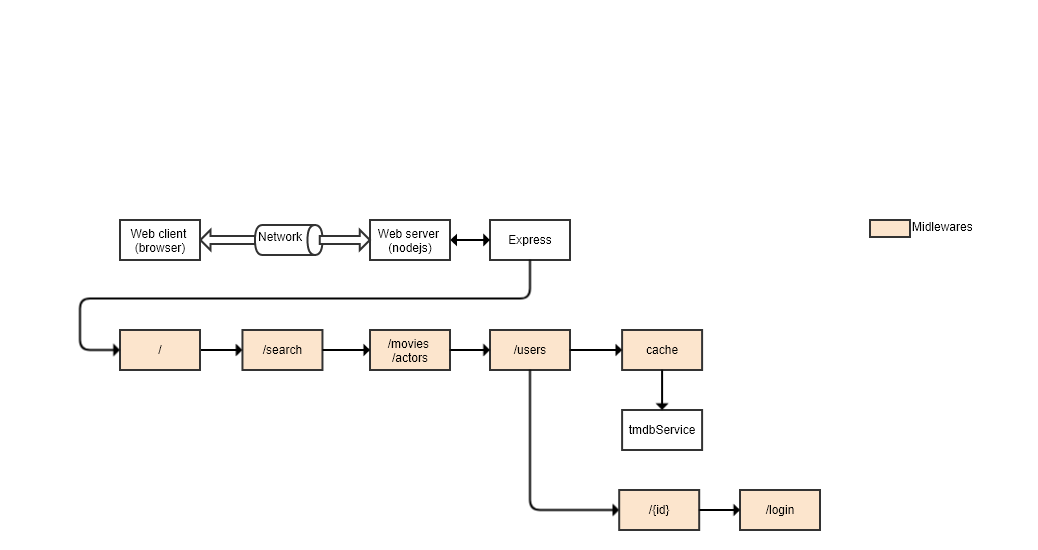
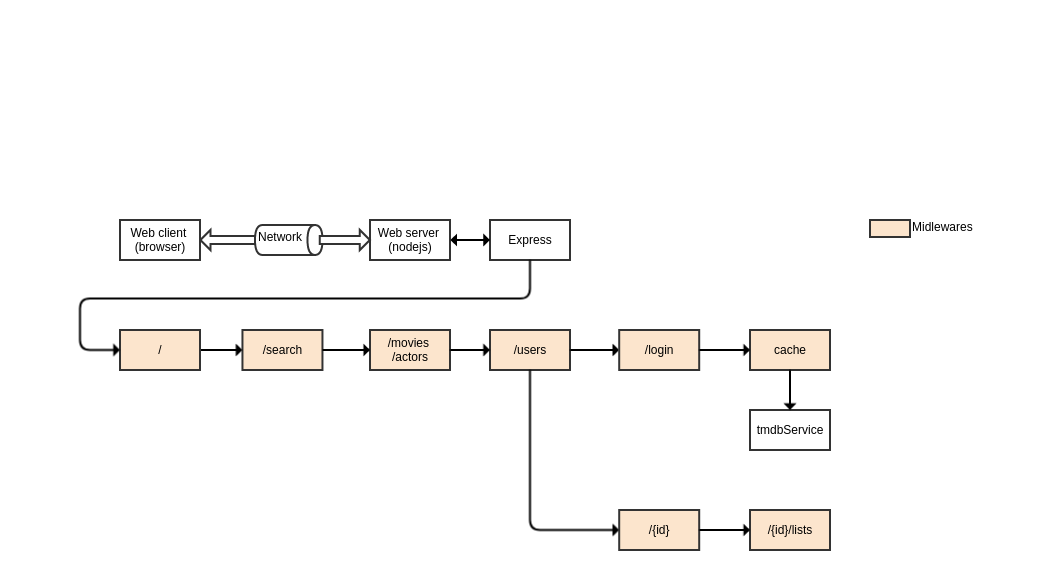
minor cleaning

diff --git a/app/MidlewareLists.js b/app/MidlewareLists.js
@@ -1,42 +1,20 @@
 'use strict'
 
-let fs = require('fs')
-let hb = require('handlebars')
-let us = require('user')
+
 
 const logger = (msg) => {console.log('Midleware Lists: ' + msg); return msg;}
-
-const TEMPLATE_FILE_LISTS = 'templateviews/lists.hbs'
 
 /**
 * Midleware for List Displaying and Handeling
 * /search?name={query}
-* @param {*} req 
-* @param {*} resp 
-* @param {*} next 
+* @param {obj} req 
+* @param {obj} resp 
+* @param {func} next 
 */
 function getLists(req, resp, next){    
-    let cookie = req.cookies[COOKIE_NAME]
-    let user = createuser(req.params.username)
-    let userInfo = ''//Function to Query User object from Couch 
-    user = createUserFromCB(user, userInfo)
-
-    let Lists = user.favLists
-
-    rep.user= user
-    /* Checar o que FAZ*/
-    req.coimapage = page
-    req.coimarouter = req.baseUrl
-    req.coimaterm = query   
-
-    //using decorator pattern for calling view
-    const ori_send = resp.send
-    resp.send = (...args) => {
-        resp.send = ori_send
-        resp.template = TEMPLATE_FILE_LISTS
-        createListView(req, resp, ...args)
-    }
-    next()
+  resp.render('lists')
+  return
+   // next()
 }
 
 /**

diff --git a/app/user.js b/app/user.js
@@ -1,32 +1,31 @@
 'use strict'
 
-const fs = require('fs')
-let favlist = require('./favlist')
+//let favlist = require('./favlist')
 
-function user() {
-    this.user = null,
-    this.id = null,
-    this.docVersion = null,
+function User() {
+    this.name = null
+    this.id = null
+    this.docVersion = null
     this.favLists = []
-    this.loggedIn = 0
-    
+    this.loggedIn = 0    
 }
 
 function createUser(name) {
-    let user = new user()
+    let user = new User()
     user.name = name
+    return user
 }
 
-function createUserFromCB(user, userInfo) {
+function createUserFromCB(username, userInfo) {
     
         let obj = JSON.parse(userInfo)
-        let user = new user()
+        let user = new User()
         user.name = obj.name
         user.id = obj._id
         user.docVersion = obj.docVersion
         user.status = false
 
-       JSON.parse(obj.favLists[]).forEach(function(elem) { 
+       JSON.parse(obj.favLists).forEach(function(elem) { 
             let favlist = new favlist()
             favlist.id = elem.id
             favlist.name = elem.name

diff --git a/app/app.js b/app/app.js
@@ -3,12 +3,11 @@
 /**
  * Modules declaration, add new midlewares modules here
  */
-let home = require('./MidlewareHome')
-let search = require('./MidlewareSearch')
-let common = require('./MidlewareCommon')
-let user = require('./MidlewareUser')
-let login = require('./MidlewareLogin')
-let cache = require('./cache')
+const search = require('./MidlewareSearch')
+const common = require('./MidlewareCommon')
+const user = require('./MidlewareUser')
+const login = require('./MidlewareLogin')
+const cache = require('./cache')
 const app = require('express')()
 const cookieParser = require('cookie-parser')
 const passport = require('passport')
@@ -76,7 +75,7 @@ app.use('/search', search)
 app.use(['/movies', '/actors'], common)
 app.use('/users', user)
 app.use('/login', login)
-app.get('/', home)
+app.get('/', (req, resp) => { resp.render('index') })
 app.use(cache)
 
 process.openStdin().addListener('data', commandInputHandler)

diff --git a/app/MidlewareLogin.js b/app/MidlewareLogin.js
@@ -3,6 +3,7 @@
 const router = require('express').Router()
 const bodyparser = require('body-parser')
 const passport = require('passport')
+const user = require('./user')
 
 const logger = (msg) => {console.log('Login: ' + msg); return msg;}
 
@@ -48,6 +49,9 @@ function logUser(req, resp, user){
     })
 }
 
+/**
+ * Passport serializer/deserializer
+ */
 passport.serializeUser((user, done) => {
     done(null, user.name)
 })
@@ -90,4 +94,5 @@ router.post('/', bodyparser.urlencoded({ extended: false }), (req, resp, next)=>
         logUser(req, resp, user)
     })
 })
+
 module.exports = router

diff --git a/app/MidlewareUser.js b/app/MidlewareUser.js
@@ -2,6 +2,7 @@
 
 const router = require('express').Router()
 const bodyparser = require('body-parser')
+const lists = require('./MidlewareLists')
 
 const logger = (msg) => {console.log('User: ' + msg); return msg;}
 
@@ -33,5 +34,6 @@ function userProfile(req, resp, next){
 }
 router.get('/', (req,resp,next) => { next() })
 router.use('/:id', userProfile)
+router.use('/:id/lists',lists)
 
 module.exports = router
